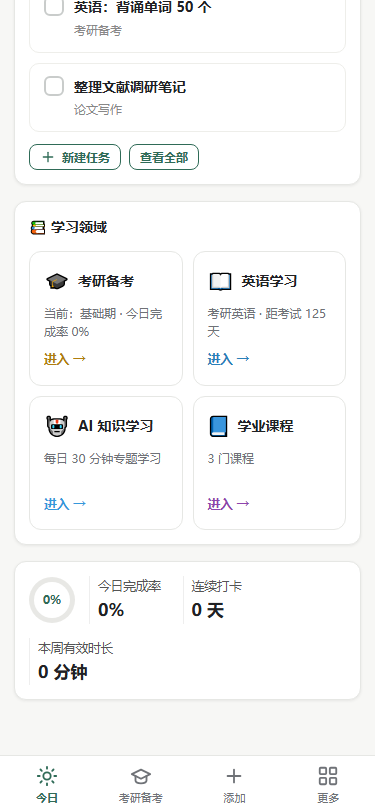
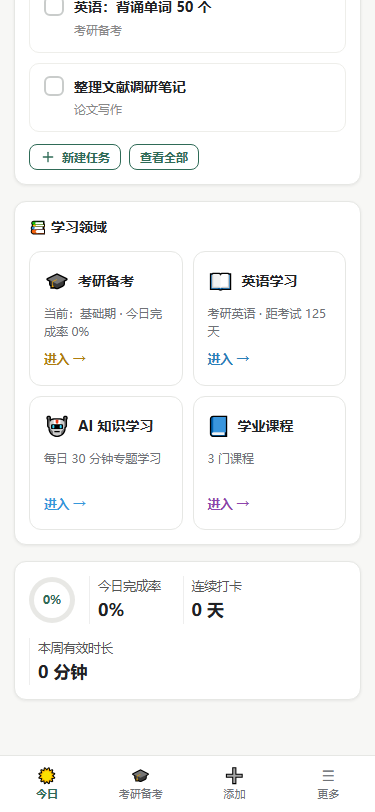
侧边栏图标改为可爱emoji风格（☀🎓📖🧠📚🍅等），手机底部导航同步

diff --git a/app.js b/app.js
@@ -458,27 +458,27 @@
   function navItems() {
     var items = [];
     items.push({ group: "开始" });
-    items.push({ view: "today", label: "今日", icon: "sun", color: "#34495E" });
+    items.push({ view: "today", label: "今日", icon: "☀" });
     items.push({ group: "我的领域" });
-    var domColors = { kaoyan: "#F5B041", cet: "#2980B9", ai: "#3498DB", courses: "#8E44AD" };
     data.domains.filter(function (x) { return !x.hidden; }).slice().sort(function (a, b) { return a.order - b.order; }).forEach(function (dm) {
-      items.push({ view: "domain:" + dm.id, label: dm.name, icon: dm.type === "courses" ? "book" : dm.type === "kaoyan" ? "target" : "book", color: domColors[dm.id] || "#5B8DD9", domain: true });
+      var ic = dm.id === "kaoyan" ? "🎓" : dm.id === "cet" ? "📖" : dm.id === "ai" ? "🧠" : dm.id === "courses" ? "📚" : "📁";
+      items.push({ view: "domain:" + dm.id, label: dm.name, icon: ic, domain: true });
     });
     items.push({ group: "工具" });
-    items.push({ view: "focus", label: "专注", icon: "timer", color: "#E74C3C" });
-    items.push({ view: "activity", label: "学习记录", icon: "trending", color: "#27AE60" });
-    items.push({ view: "library", label: "资料库", icon: "folder", color: "#2980B9" });
-    items.push({ view: "inbox", label: "收集箱", icon: "inbox", color: "#9B59B6", badge: (data.inbox || []).filter(function (x) { return x.status === "待分拣"; }).length });
-    items.push({ view: "mistakes", label: "错题本", icon: "alert", color: "#F39C12" });
-    items.push({ view: "qa", label: "答疑库", icon: "help", color: "#1ABC9C" });
-    items.push({ view: "reviews", label: "复盘", icon: "refresh", color: "#34495E" });
-    items.push({ view: "health", label: "健康", icon: "heart", color: "#2ECC71" });
-    items.push({ view: "calendar", label: "日历", icon: "calendar", color: "#8E44AD" });
-    items.push({ view: "accounts", label: "账号", icon: "user", color: "#95A5A6" });
+    items.push({ view: "focus", label: "专注", icon: "🍅" });
+    items.push({ view: "activity", label: "学习记录", icon: "📈" });
+    items.push({ view: "library", label: "资料库", icon: "📁" });
+    items.push({ view: "inbox", label: "收集箱", icon: "📥", badge: (data.inbox || []).filter(function (x) { return x.status === "待分拣"; }).length });
+    items.push({ view: "mistakes", label: "错题本", icon: "📕" });
+    items.push({ view: "qa", label: "答疑库", icon: "💬" });
+    items.push({ view: "reviews", label: "复盘", icon: "🔄" });
+    items.push({ view: "health", label: "健康", icon: "💪" });
+    items.push({ view: "calendar", label: "日历", icon: "📅" });
+    items.push({ view: "accounts", label: "账号", icon: "👤" });
     items.push({ group: "系统" });
-    items.push({ view: "search", label: "搜索", icon: "search", color: "#34495E" });
-    items.push({ view: "ai", label: "AI 帮手", icon: "spark", color: "#3498DB" });
-    items.push({ view: "settings", label: "设置与数据", icon: "settings", color: "#7F8C8D" });
+    items.push({ view: "search", label: "搜索", icon: "🔍" });
+    items.push({ view: "ai", label: "AI 帮手", icon: "🤖" });
+    items.push({ view: "settings", label: "设置与数据", icon: "⚙" });
     return items;
   }
 
@@ -552,7 +552,7 @@
       if (it.group) { html += '<div class="nav-group"><div class="nav-group-title">' + it.group + "</div></div>"; return; }
       var active = W.ui.view === it.view ? " active" : "";
       html += '<button class="nav-item' + active + '" data-action="nav" data-view="' + it.view + '">' +
-        '<span class="nav-ic" style="color:' + (it.color || "#4A4A4A") + '">' + ICONS[it.icon] + "</span><span>" + it.label + "</span>" +
+        '<span class="nav-emoji">' + it.icon + "</span><span>" + it.label + "</span>" +
         (it.badge ? '<span class="nav-badge">' + it.badge + "</span>" : "") + "</button>";
     });
     nav.innerHTML = html;
@@ -562,15 +562,15 @@
     var primary = data.settings.primaryDomain || data.domains[0].id;
     var pv = "domain:" + primary;
     var bottom = [
-      { view: "today", label: "今日", icon: "sun" },
-      { view: pv, label: (data.domains.filter(function (x) { return x.id === primary; })[0] || {}).name || "领域", icon: "target" },
-      { view: "__plus", label: "添加", icon: "plus" },
-      { view: "__more", label: "更多", icon: "grid" }
+      { view: "today", label: "今日", icon: "☀" },
+      { view: pv, label: (data.domains.filter(function (x) { return x.id === primary; })[0] || {}).name || "领域", icon: "🎓" },
+      { view: "__plus", label: "添加", icon: "➕" },
+      { view: "__more", label: "更多", icon: "☰" }
     ];
     mn.innerHTML = bottom.map(function (b) {
       var active = W.ui.view === b.view ? " active" : "";
       return '<button class="mn-item' + active + '" data-action="' + (b.view === "__plus" ? "quick-add" : b.view === "__more" ? "open-drawer" : "nav") + '" data-view="' + b.view + '">' +
-        ICONS[b.icon] + "<span>" + b.label + "</span></button>";
+        '<span class="nav-emoji">' + b.icon + "</span><span>" + b.label + "</span></button>";
     }).join("");
 
     /* 抽屉 */
@@ -580,7 +580,7 @@
       if (it.group) { dhtml += '<div class="drawer-group-title">' + it.group + "</div>"; return; }
       var active = W.ui.view === it.view ? " active" : "";
       dhtml += '<button class="drawer-item' + active + '" data-action="nav" data-view="' + it.view + '">' +
-        '<span class="nav-ic" style="color:' + (it.color || "#4A4A4A") + '">' + ICONS[it.icon] + "</span><span>" + it.label + "</span></button>";
+        '<span class="nav-emoji">' + it.icon + "</span><span>" + it.label + "</span></button>";
     });
     db.innerHTML = dhtml;
   }

diff --git a/styles.css b/styles.css
@@ -286,9 +286,7 @@ h1, h2, h3, h4 { font-weight: 700; }
 .nav-item svg { width: 15px; height: 15px; flex-shrink: 0; opacity: .9; }
 .nav-item:hover { background: #F0F0F0; }
 .nav-item.active { background: #2F6B57; color: #fff; font-weight: 600; }
-.nav-item.active .nav-ic { color: #fff !important; }
-.nav-ic { display: inline-flex; align-items: center; }
-.nav-ic svg { color: inherit; }
+.nav-emoji { font-size: 15px; line-height: 1; flex-shrink: 0; }
 .nav-item .nav-badge {
   margin-left: auto; font-size: 11px; background: rgba(47,107,87,0.12);
   color: #2F6B57; border-radius: 10px; padding: 1px 7px;

diff --git a/service-worker.js b/service-worker.js
@@ -3,7 +3,7 @@
    - HTML 页面：优先网络（每次打开都是最新版），网络失败时用缓存（离线可用）
    - 静态资源（css/js）：先读缓存（秒开），后台拉取更新缓存
    - 发布新版本时更新 CACHE 版本号，旧缓存自动清理，一次刷新即生效 */
-var CACHE = "wb-cache-v035";
+var CACHE = "wb-cache-v036";
 var ASSETS = [
   "./",
   "./index.html",
